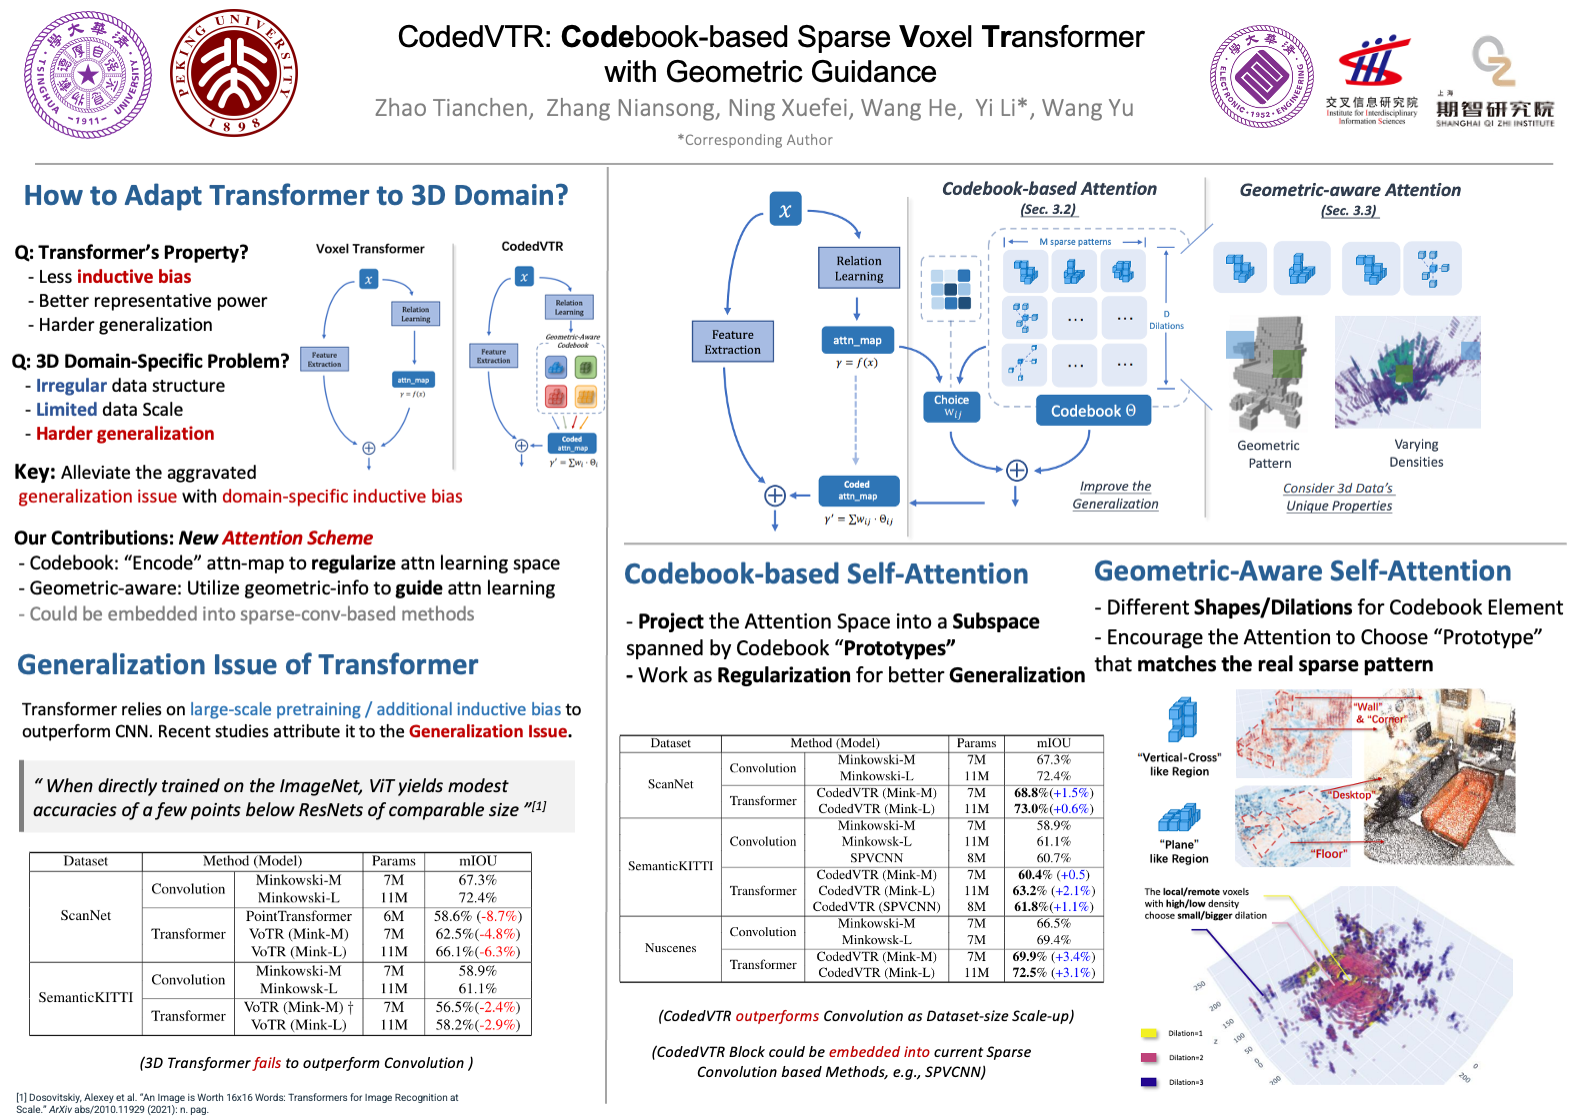
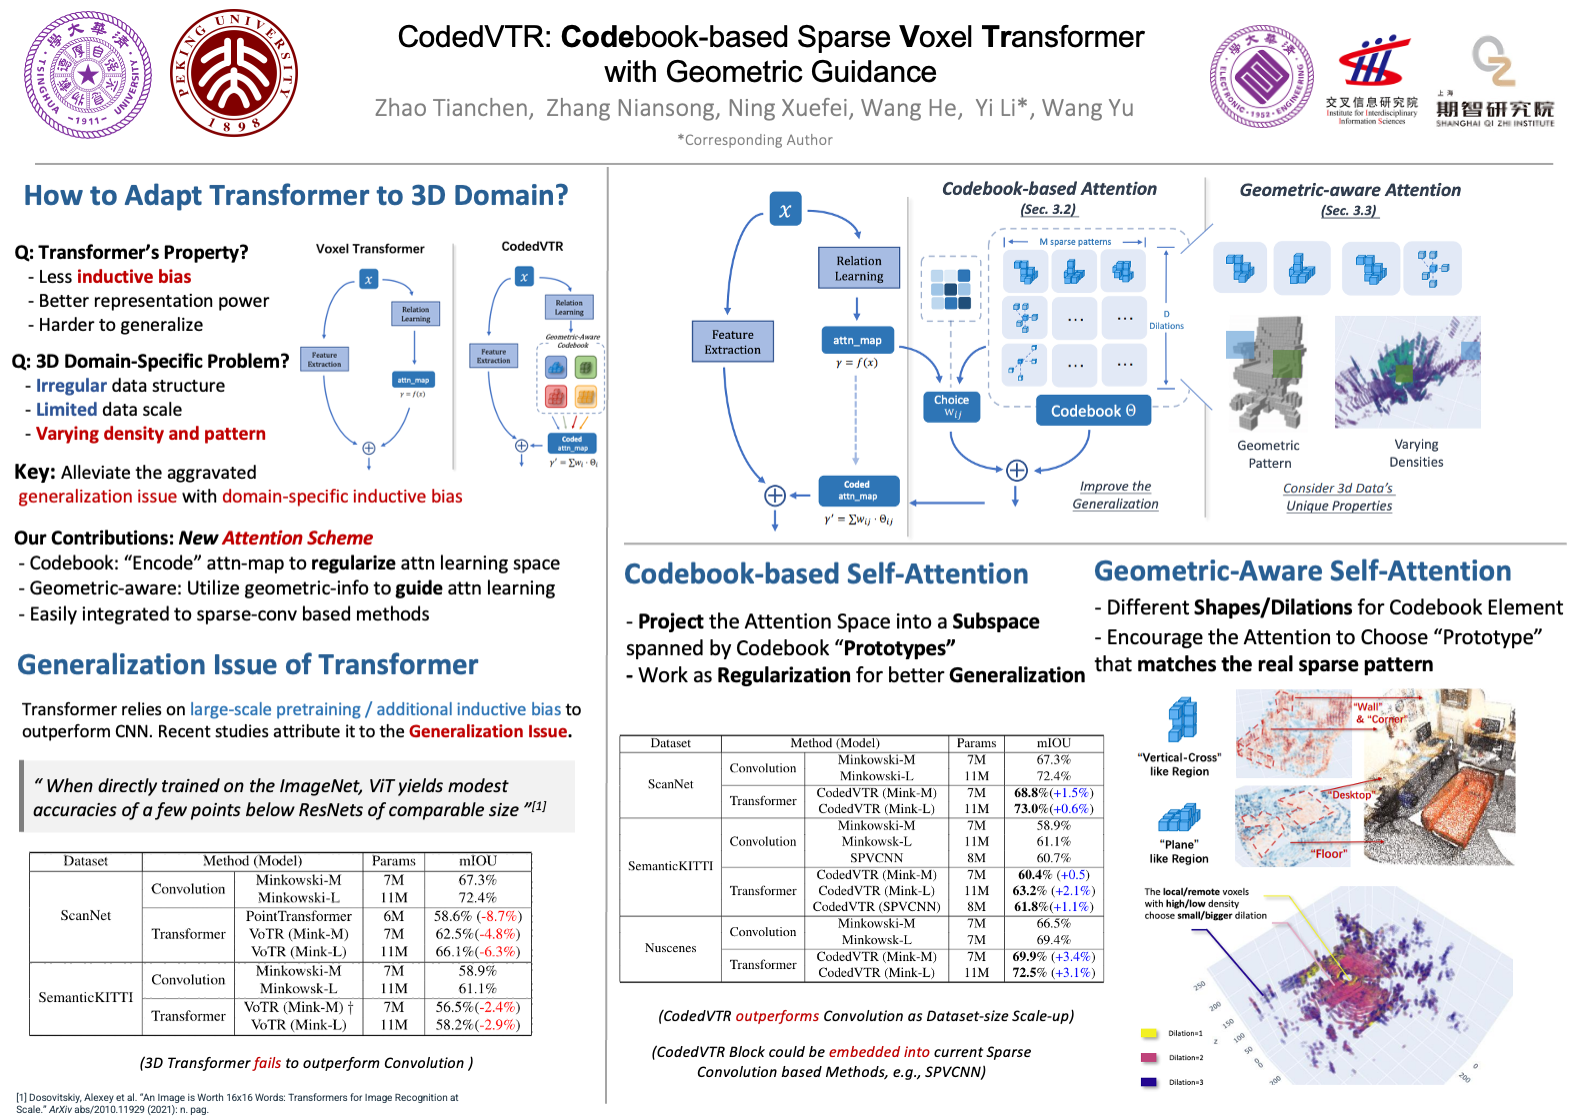
<update> fill some content-25

diff --git a/index.html b/index.html
@@ -314,7 +314,7 @@
             Transformers are known to have <b>generalization issues</b>. It requires large-scale pre-training and cannot be directly trained
             on smaller datasets without overfitting. As the ViT paper states, <i>"When directly trained on the ImageNet, 
             ViT yields modest accuracies of a few points below ResNets of comparable size".</i> When introducing transformers into the <b>3d domain</b>,
-            the generalization issue is aggravated by 3d data's relative restricted data scale and unique properties (sparsity, varying geometric shape). 
+            the generalization issue is aggravated by 3D data's relative restricted data scale and unique properties (sparsity, varying geometric shape). 
           </p>
         </div>
         <!-- <div class="columns is-vcentered interpolation-panel">
@@ -331,7 +331,9 @@
         <h3 class="title is-4">Codebook-based Self-Attention</h3>
         <div class="content has-text-justified">
           <p>
-            Instead of directly learning the mapping from the activation space to the attention weight space. We project the attention learning
+            Instead of directly learning the mapping from the activation space to the attention weight space. We construct a learnable codebook
+            , and use weighted sum of the codebook elements to approximate the attention weight. Noted that both the codebook elements and the 
+            weights are learnable.  It projects the attention learning
             space to its subspace represented by the weighted sum of a few attention weight "prototypes" (codebook elements). It restricts
             the attention learning space and works as regularization, which could improve generalization. <br>
             (Interestingly, the codebook-based self-attention could be viewed as an intermediate state of transformer and convolution. 
@@ -377,7 +379,7 @@
         <h3 class="title is-4">Performance</h3>
         <div class="content has-text-justified">
           <p>
-            CodedVTR could improve performance on both indoor and outdoor 3d semantic segmentation tasks. Noted that our CodedVTR block is 
+            CodedVTR could improve performance on both indoor and outdoor 3D semantic segmentation tasks. Noted that our CodedVTR block is 
             compatible with existing sparse-conv based methods (e.g., SPVCNN).
           </p>
         </div>
